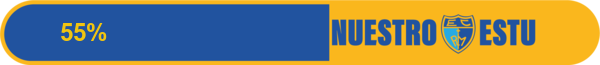
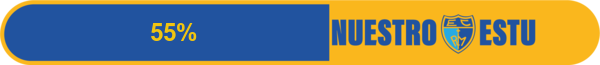
55%

Changed region(s): [[0.24, 0.3385, 0.33, 0.6462], [0.09, 0.3385, 0.18, 0.6462]]

diff --git a/public/noticias/encuesta/index.html b/public/noticias/encuesta/index.html
@@ -144,7 +144,7 @@
 <p>Nos interesa su opinión; hemos preparado una rapidísima encuesta. Le llevará muy poco tiempo contestarla y nos comprometemos a trasladar su resultado a la directiva.</p>
 <p>¡Ayúdenos a llegar a 1000 repuestas!</p>
 <div class="progressbar">
-<img src=/img/progbar-51.png alt=51% style="max-width: 100%">
+<img src=/img/progbar-55.png alt=55% style="max-width: 100%">
 </div>
 <iframe src="https://docs.google.com/forms/d/e/1FAIpQLSdsSQaVsEkUFBAuhsDd7TpCpMPtx6kA_iZXi_Hk7SD-1lQ00Q/viewform?embedded=true" width="90%" height="600" frameborder="0" marginheight="0" marginwidth="0">Chargement en cours…</iframe>
 </div>

diff --git a/content/noticias/encuesta.md b/content/noticias/encuesta.md
@@ -16,6 +16,6 @@ Nos interesa su opinión; hemos preparado una rapidísima encuesta. Le llevará 
 
 ¡Ayúdenos a llegar a 1000 repuestas!
 
-{{< progressbar src="/img/progbar-51.png" alt="51%" >}}
+{{< progressbar src="/img/progbar-55.png" alt="55%" >}}
 
 {{< survey src="1FAIpQLSdsSQaVsEkUFBAuhsDd7TpCpMPtx6kA_iZXi_Hk7SD-1lQ00Q" width="400" height="4871" >}}
